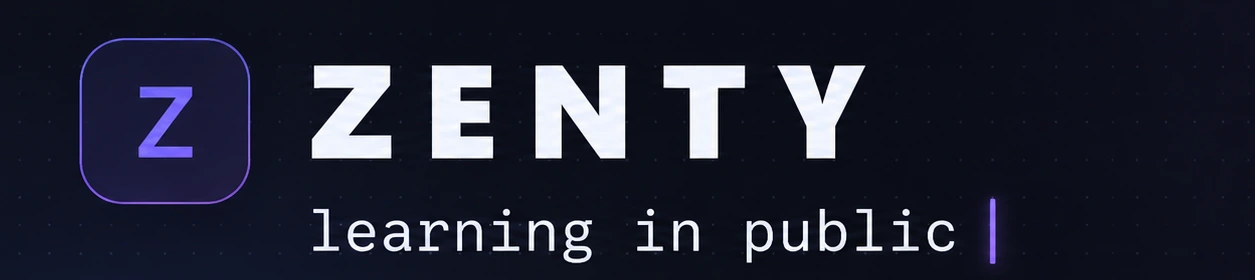
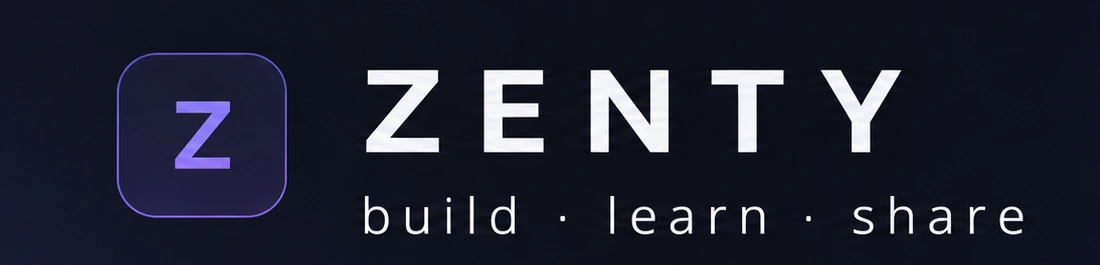
assets: new cover (build · learn · share)

Changed region(s): [[0.0618, 0.1208, 0.9273, 0.9358], [0.7418, 0.2415, 0.8345, 0.5736]]

diff --git a/README.md b/README.md
@@ -2,7 +2,7 @@
   <picture>
     <source media="(max-width: 640px)" srcset="assets/banner-mobile.webp" type="image/webp">
     <source srcset="assets/banner.webp" type="image/webp">
-    <img src="assets/banner.jpg" alt="Zenty — learning in public · ai tools · small projects · open source" width="100%">
+    <img src="assets/banner.jpg" alt="Zenty — build · learn · share · projects / tools / notes" width="100%">
   </picture>
 </p>
 
